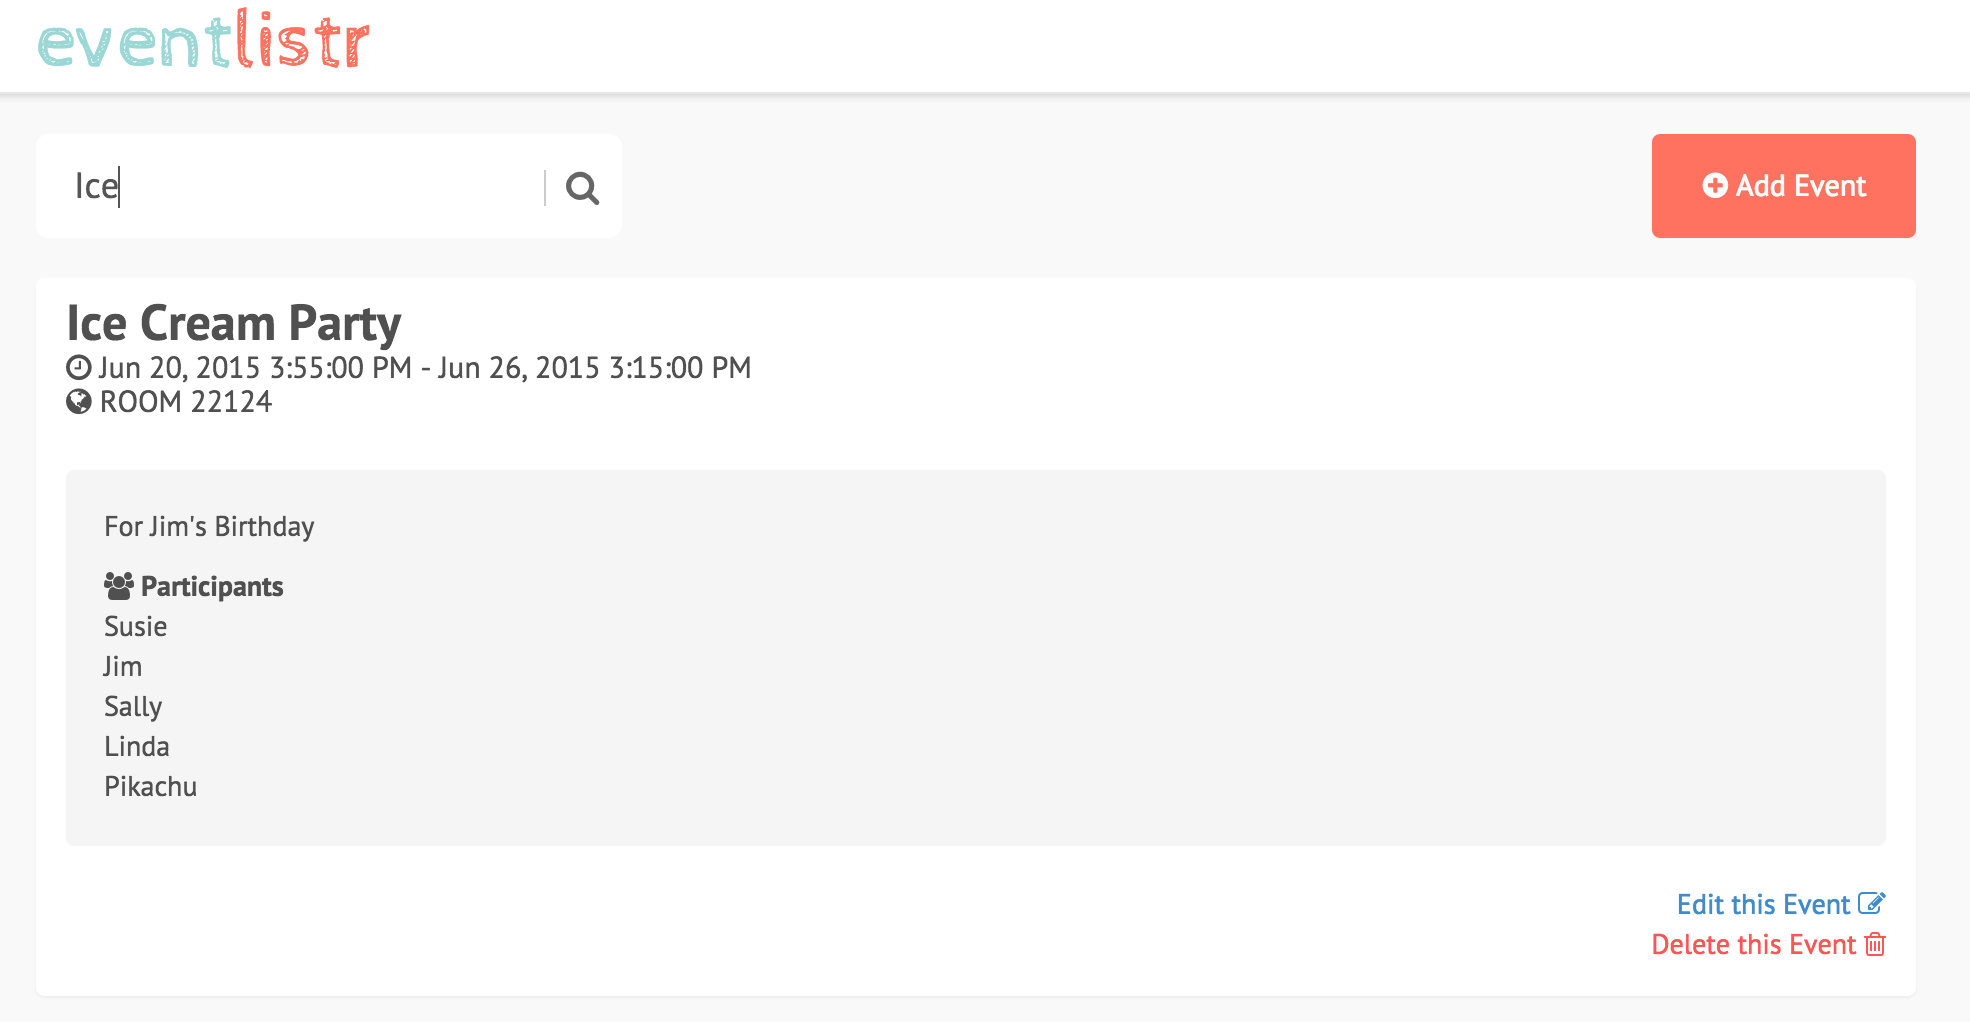
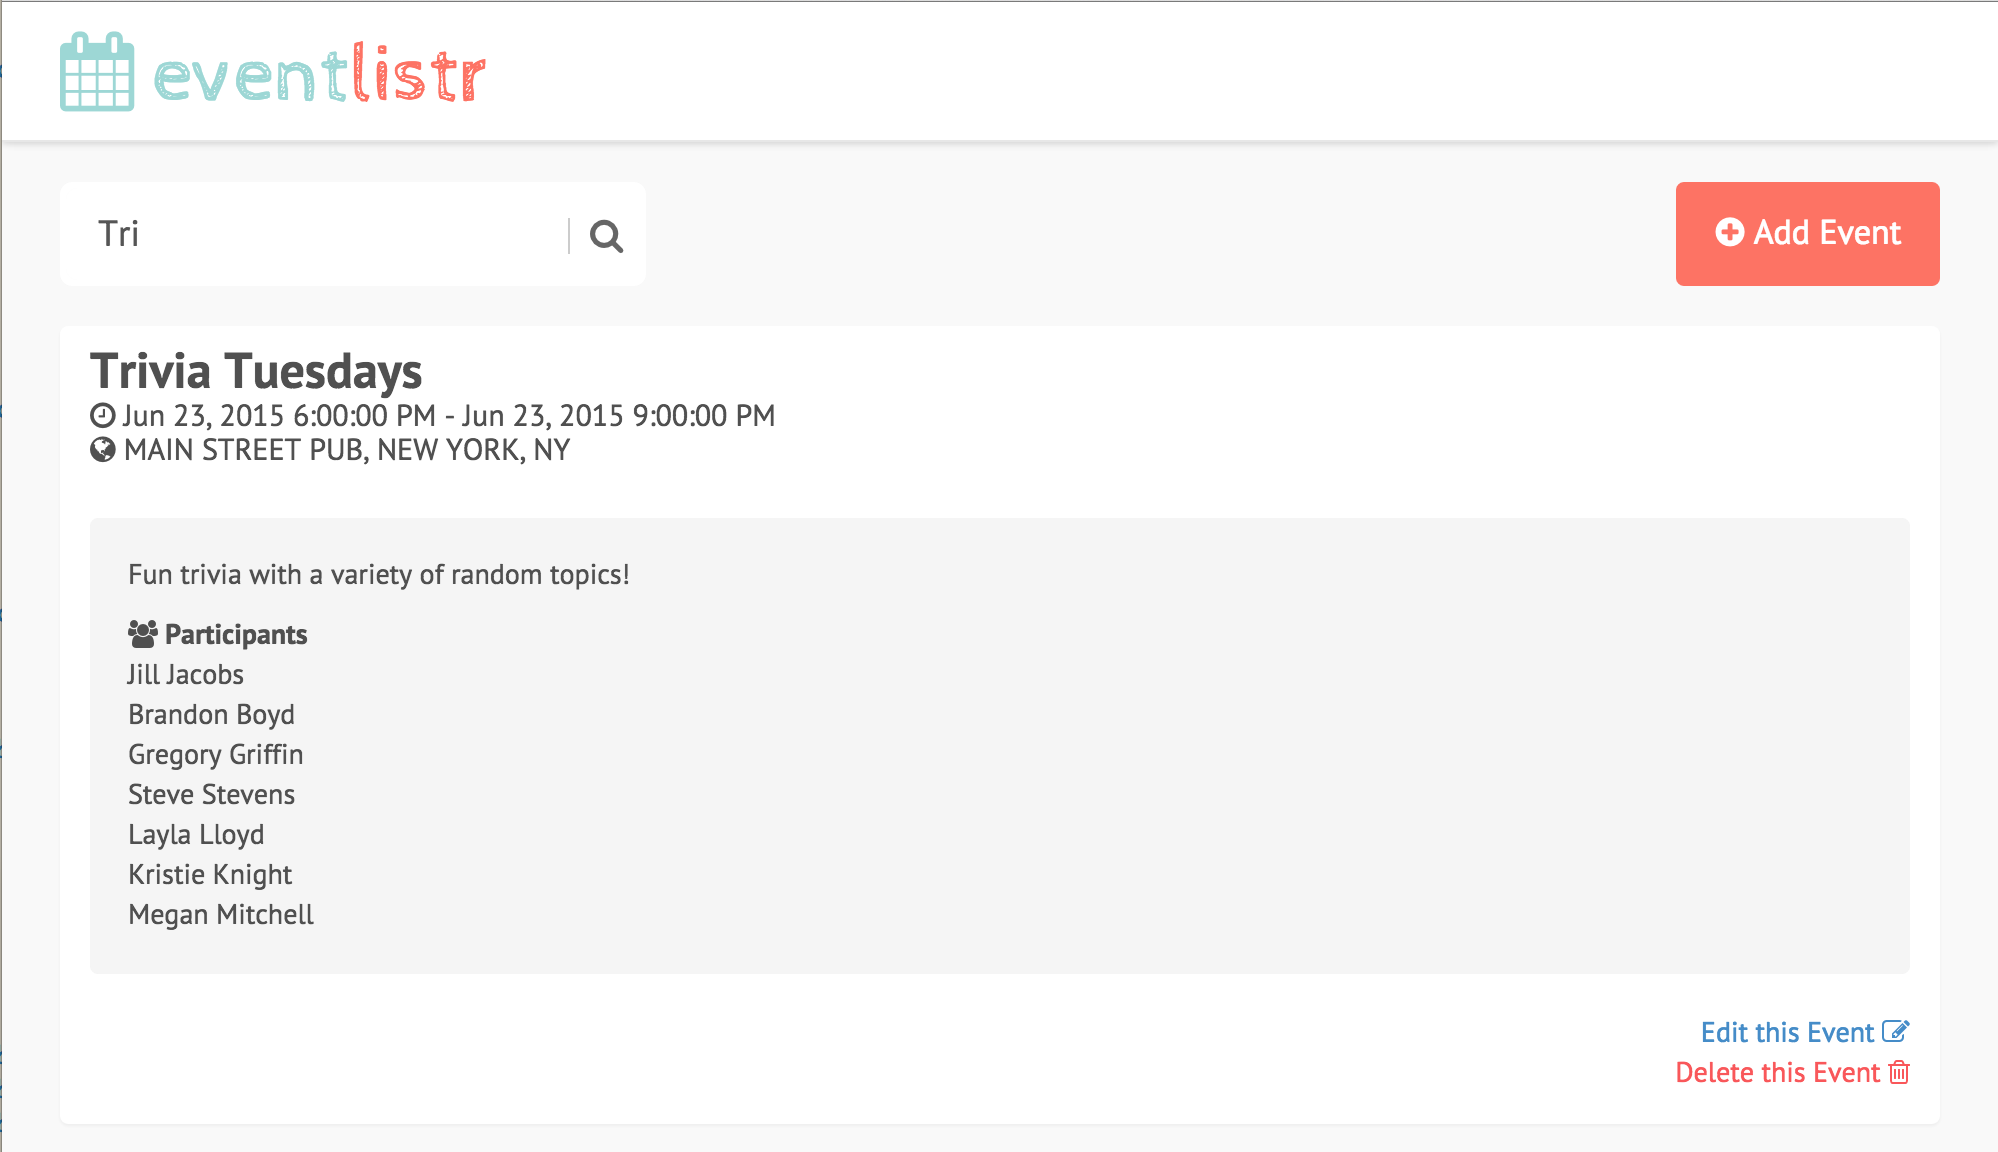
styles

diff --git a/client/index.html b/client/index.html
@@ -12,7 +12,7 @@
 
   <script src="socket.io-client/socket.io.js"></script>
 
-  <link rel="stylesheet" href="bower_components/angular-bootstrap/ui-bootstrap-csp.css"></link>
+  <link rel="stylesheet" href="bower_components/angular-bootstrap/ui-bootstrap.css"></link>
   <link rel="stylesheet" href="bower_components/bootstrap/dist/css/bootstrap.css"></link>
   <link rel="stylesheet" href="bower_components/angular-bootstrap-datetimepicker/src/css/datetimepicker.css"></link>
   <link rel="stylesheet" href="bower_components/font-awesome/css/font-awesome.css"></link>

diff --git a/client/app.css b/client/app.css
@@ -1,6 +1,6 @@
 body {
   font-family: 'PT Sans', sans-serif;
-  padding-top: 2rem;
+  padding-top: 4rem;
   background-color: #f9f9f9;
   color: #505050;
 }
@@ -116,7 +116,7 @@ body {
 .btn-custom-add {
   width: 100%;
   height: 52px;
-  font-size: 1.5rem;
+  font-size: 1.7rem;
   outline: none;
   background-color: #ff7260;
   color: #ffffff;
@@ -193,4 +193,8 @@ body {
   .btn-custom-save {
     margin-bottom: 1.5rem;
   }
+}
+
+.navbar {
+  height: 7rem;
 }

diff --git a/client/shared/directives/navbar/navbar.html b/client/shared/directives/navbar/navbar.html
@@ -1,7 +1,7 @@
 <nav class="navbar navbar-default navbar-fixed-top">
   <div class="container">
     <div class="navbar-header">
-      <a class="navbar-brand" href="#/list"><span class="title-first-half">event</span><span class="title-second-half">listr</span></a>
+      <a class="navbar-brand" href="#/list"><span class="title-first-half"><i class="fa fa-calendar"></i> event</span><span class="title-second-half">listr</span></a>
     </div>
   </div>
 </nav>
